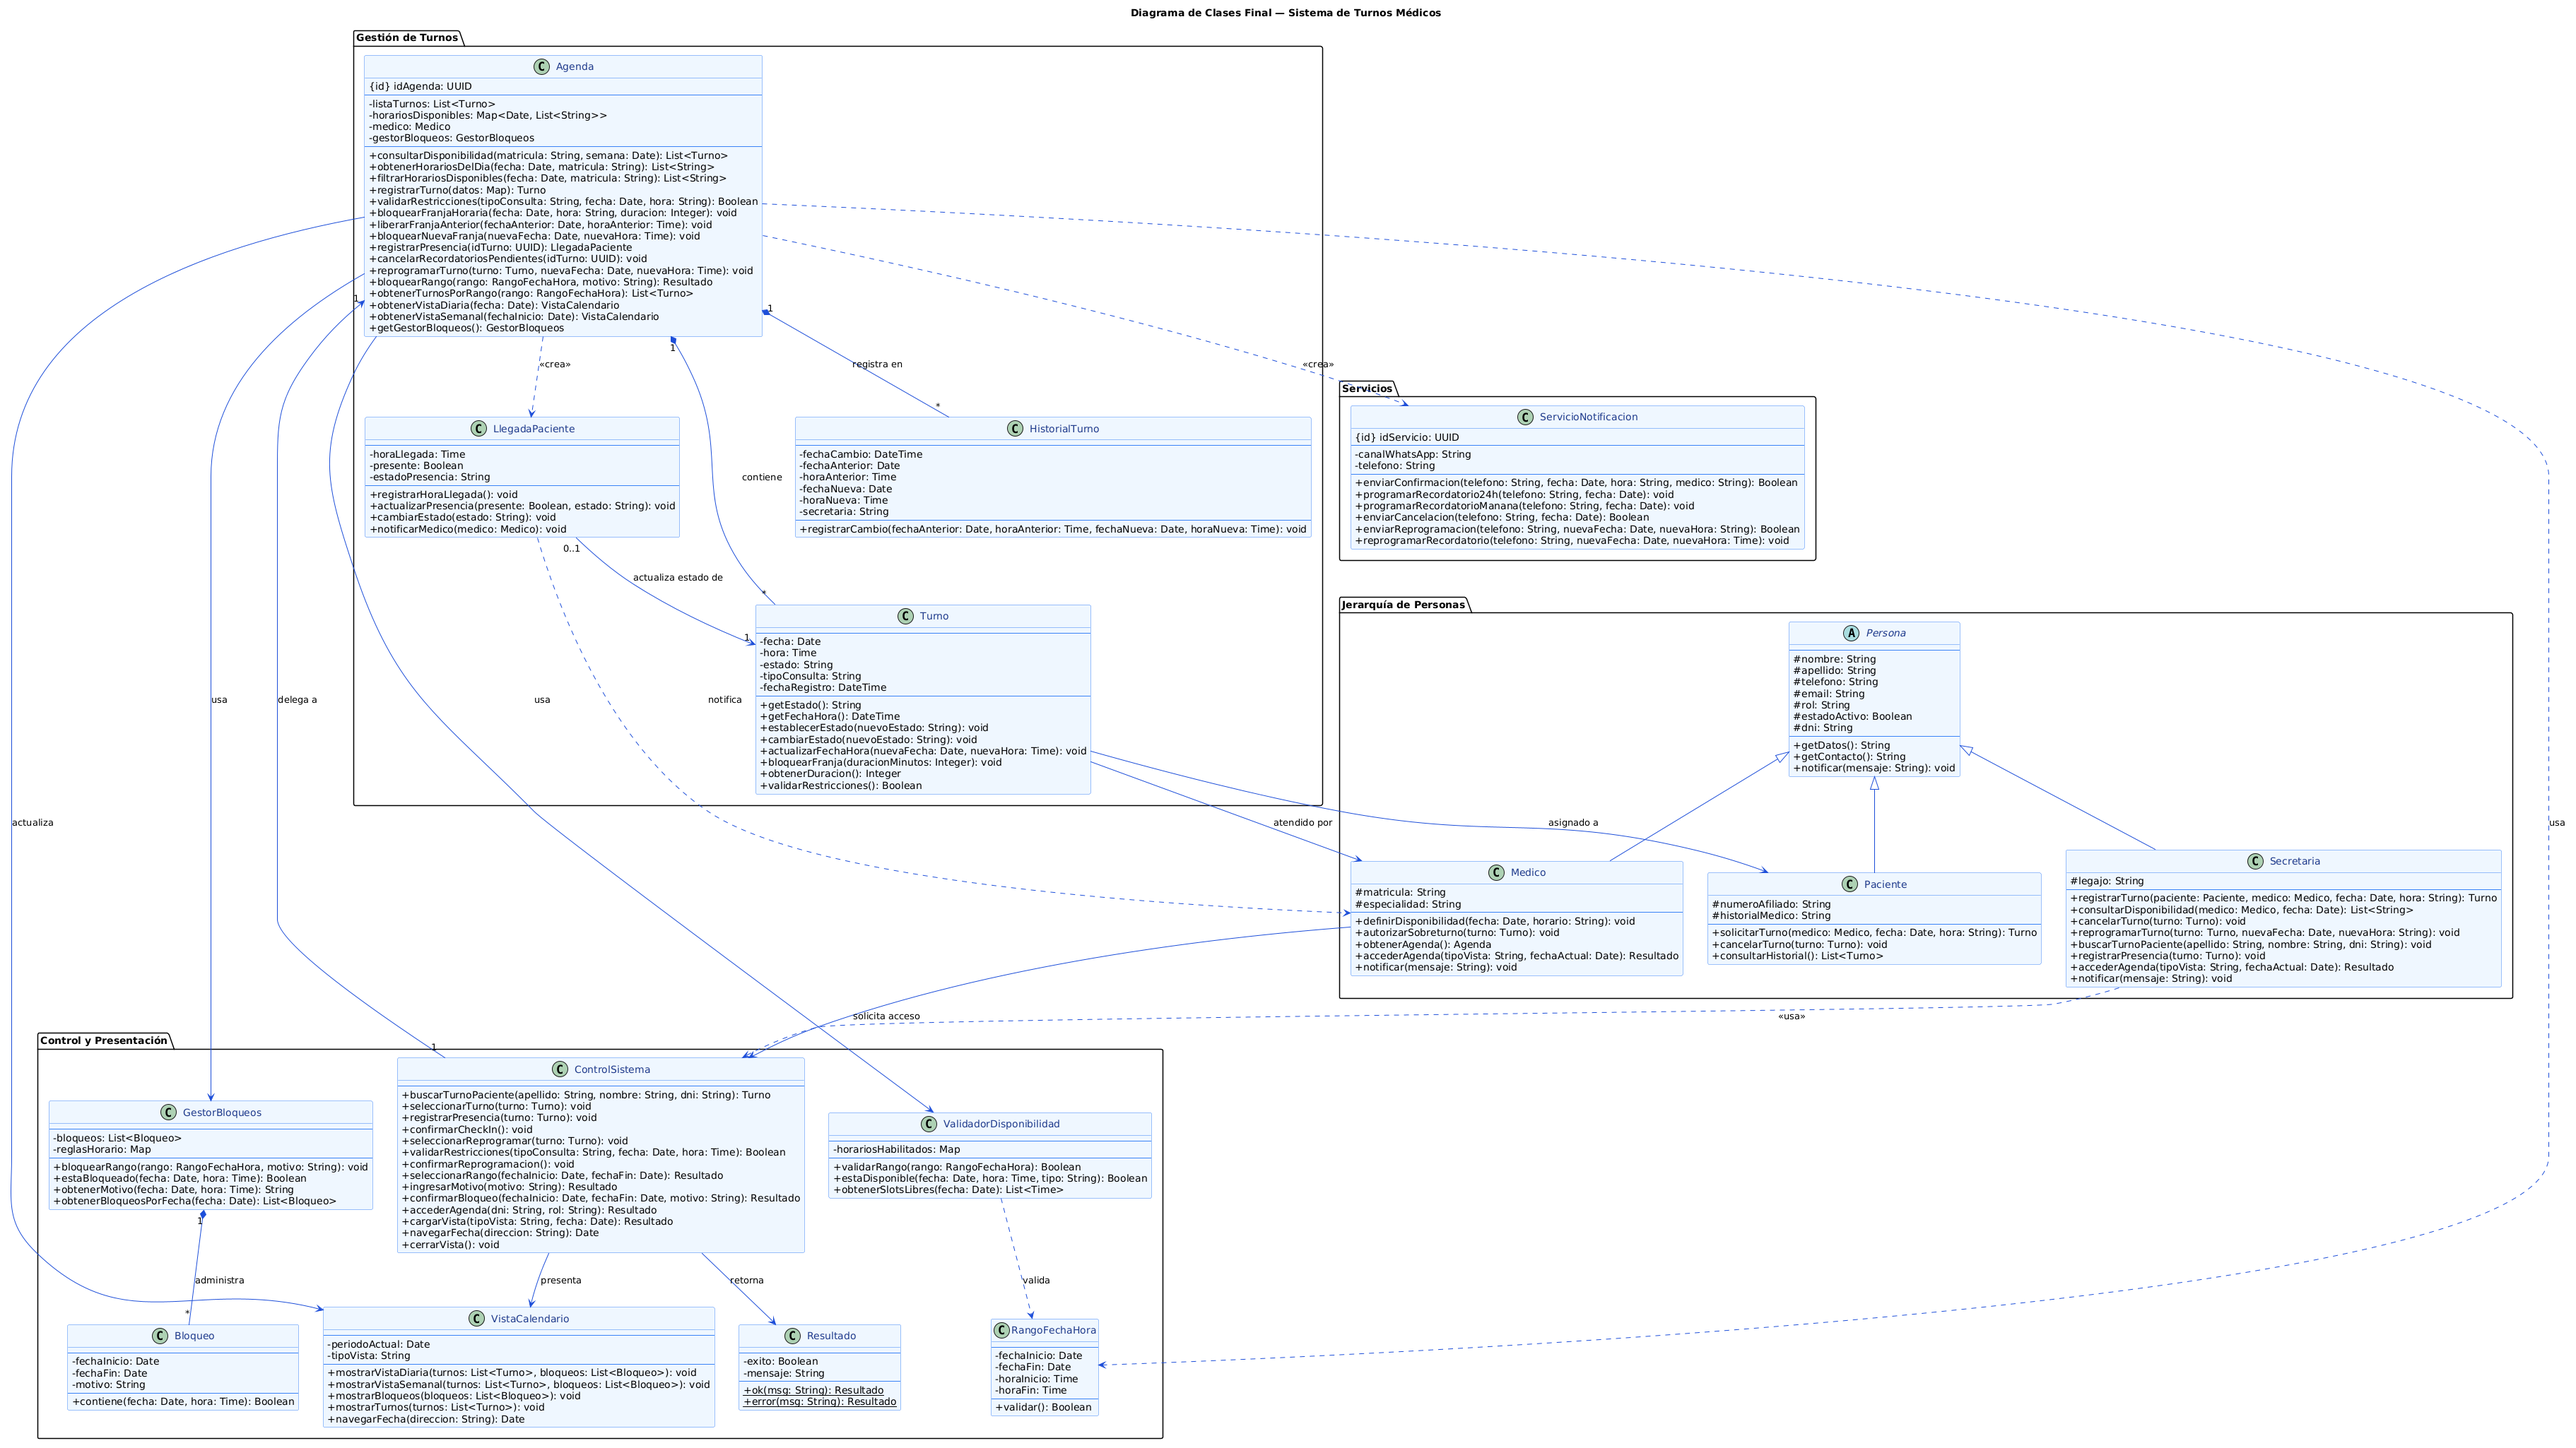
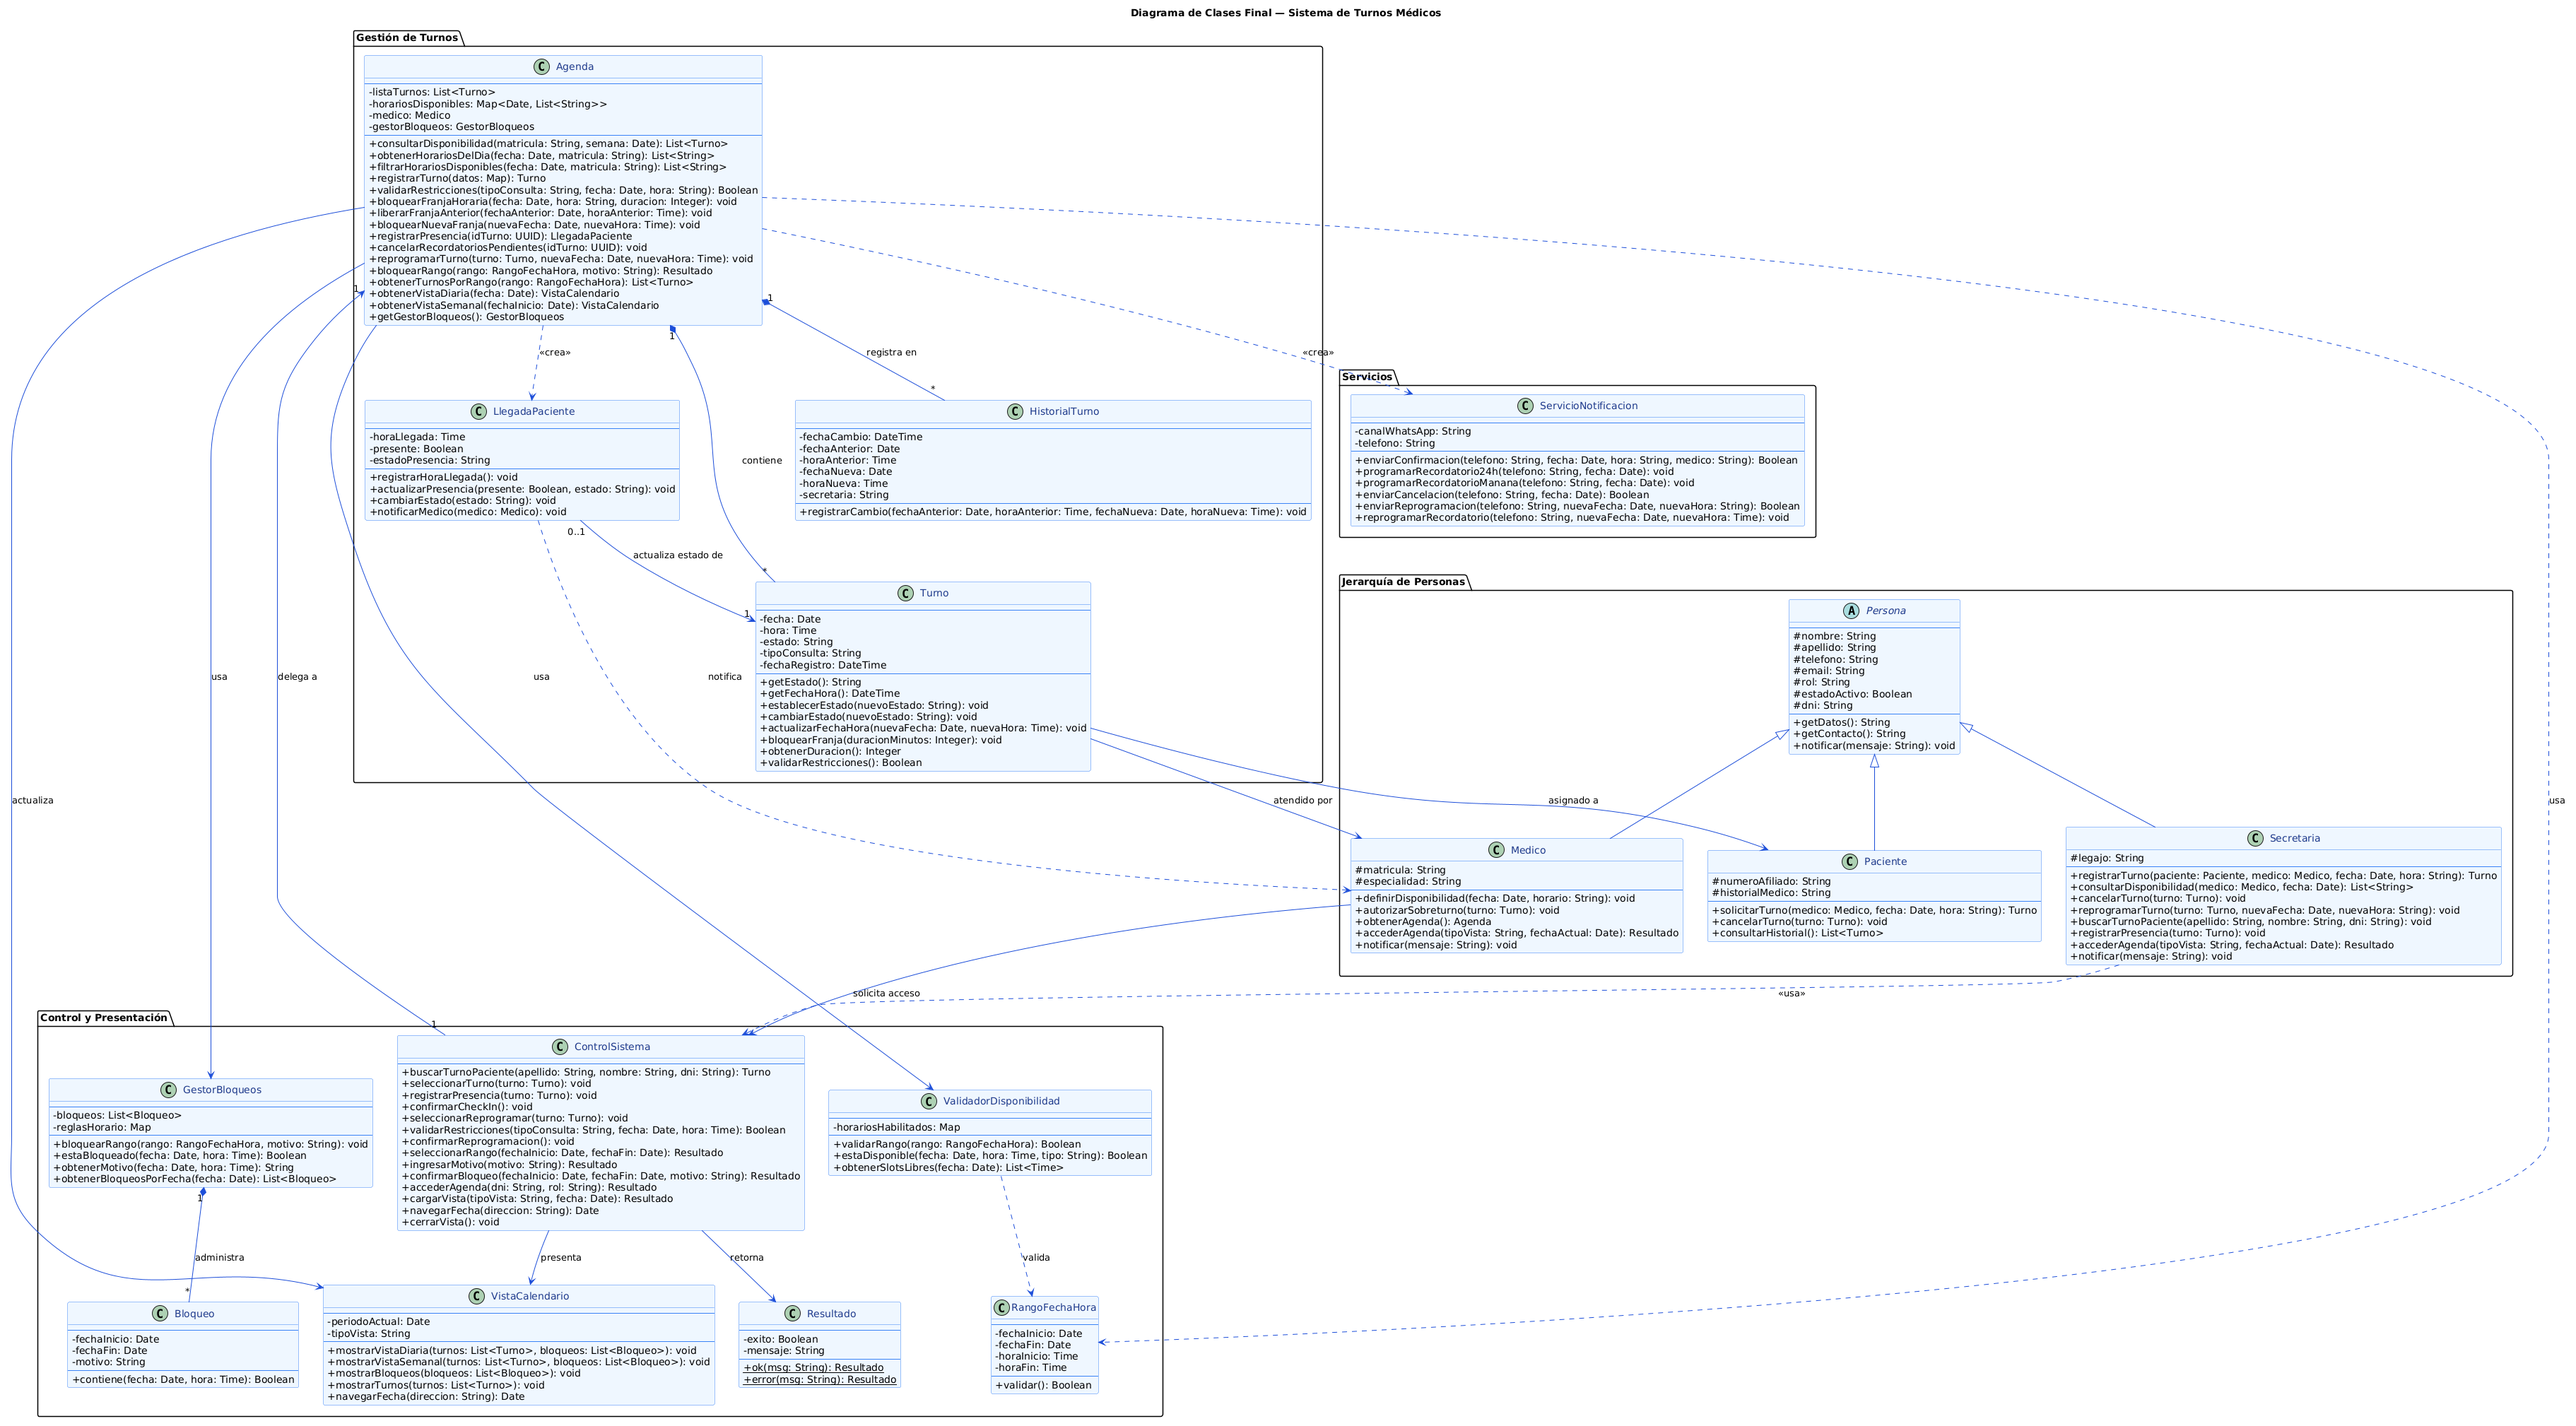
Corrección diagrama de clases final

diff --git a/changelog.md b/changelog.md
@@ -30,6 +30,8 @@
 
 - [fix/correcion-cu-2-3] Agregar clase Persona a los archivos de los analisis de casos de uso 2 y 3. PR: [#198](https://github.com/angelgc9107-lgtm/SistemaTurnosMedicos_GP6/pull/198) - angelgc9107-lgtm - Analista Funcional de Casos de Uso 2 y 3
 
+- [fix/correcion-diagrama6] Corregir diagrama 6. PR: [#201](https://github.com/angelgc9107-lgtm/SistemaTurnosMedicos_GP6/pull/201) - @luchobarrionuevo13 - (Analista Funcional CU1 + Coordinador de Repositorio)
+
 ## [Released Actividad Obligatoria N°3] - 2026-05-21
 
 ### Fixed
